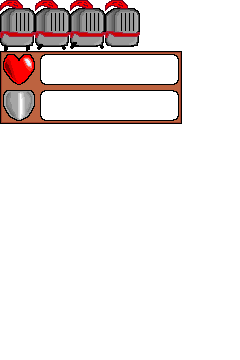
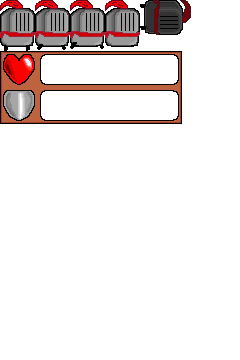
made the player die

Changed region(s): [[0.5833, 0.0, 0.8167, 0.1222]]

diff --git a/game/gameState/Player.cpp b/game/gameState/Player.cpp
@@ -1,7 +1,5 @@
 #include "Player.hpp"
 
-//ge::Data ge::data;
-
 void Player::initVariables()
 {
     playerAnimation.setSprite(&player);
@@ -10,6 +8,7 @@ void Player::initVariables()
     playerAnimation.addFrame(sf::IntRect(70,0,35,50), 200);
     playerAnimation.addFrame(sf::IntRect(35,0,35,50), 100);
     playerRect = sf::IntRect(0,0,35,50);
+    alive = true;
     maxHealth = 5;
     maxShield = 5;
     health = maxHealth;
@@ -17,7 +16,6 @@ void Player::initVariables()
     velocity = 2.f;
     EHeld = false;
     walkRate = 300;
-    leftDown = false;
     playerWeaponTexture = ge::data.texture.getResource("mainTexture")[0];
 }
 
@@ -229,6 +227,13 @@ void Player::updatePlayer()
 {
     checkInputs();
     checkCollisions();
+    if (health <= 0) {
+        alive = false;
+        player.setTextureRect(sf::IntRect(140,0,50,35));
+        for (weaponStruct &weapon : *weapons->getWeapons()) {
+            weapon.held = false;
+        }
+    }
 }
 
 void Player::updateWeapons()
@@ -250,10 +255,6 @@ void Player::updateWeapons()
     } else {
         EHeld = false;
     }
-}
-
-void Player::renderWeapons()
-{
 }
 
 void Player::updateHealthBar()
@@ -291,6 +292,9 @@ void Player::renderPlayer()
 
 void Player::update()
 {
+    if (!alive) {
+        return;
+    }
     updatePlayer();
     updateWeapons();
     enemies.update();

diff --git a/game/gameState/Player.hpp b/game/gameState/Player.hpp
@@ -29,7 +29,6 @@ public:
     void updatePlayer();
     void renderPlayer();
     void updateWeapons();
-    void renderWeapons();
     void updateHealthBar();
     void renderHealthBar();
 
@@ -59,8 +58,8 @@ private:
     std::vector<sf::RectangleShape> shieldVec;
     bool EHeld;
     int walkRate;
-    bool leftDown;
     bool playerMoving;
+    bool alive;
     
 
     //private functions 
